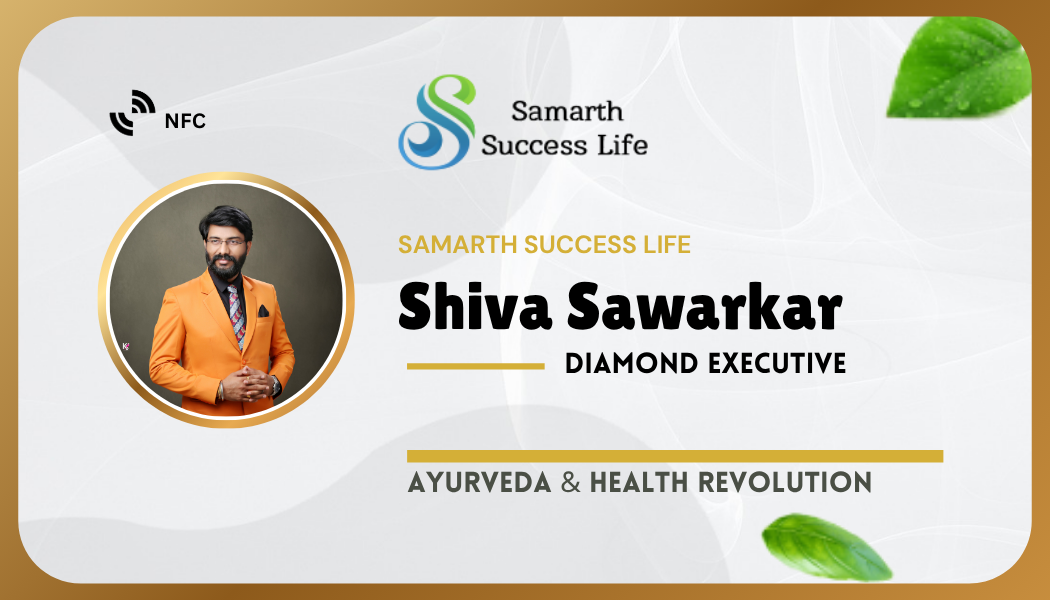
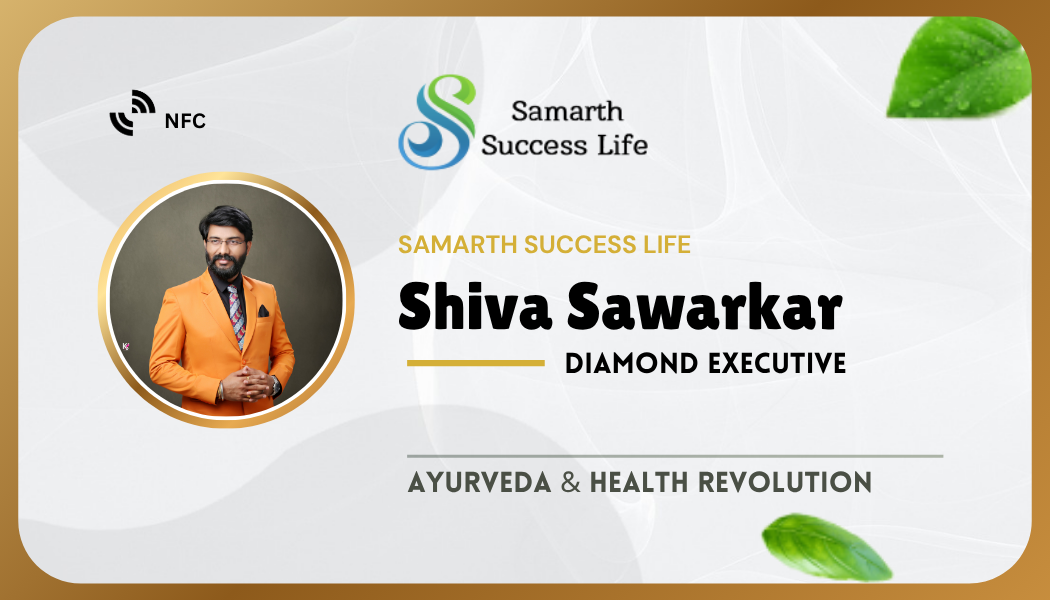
Update formatting and front image

Changed region(s): [[0.3657, 0.75, 0.9143, 0.78], [0.3657, 0.6, 0.5181, 0.63]]

diff --git a/index.html b/index.html
@@ -1,5 +1,6 @@
 <!DOCTYPE html>
 <html lang="en">
+
 <head>
   <meta charset="UTF-8">
   <meta name="viewport" content="width=device-width, initial-scale=1.0">
@@ -9,12 +10,13 @@
   <link rel="preconnect" href="https://fonts.googleapis.com">
   <link rel="preconnect" href="https://fonts.gstatic.com" crossorigin>
   <link href="https://fonts.googleapis.com/css2?family=Lexend:wght@400;600;700&display=swap" rel="stylesheet">
-  
+
   <style>
     :root {
       --bg-dark: #0f172a;
       --accent: #d4af37;
-      --edge-color: #d4af37; /* Seamless Saffron Gold core edge */
+      --edge-color: #d4af37;
+      /* Seamless Saffron Gold core edge */
     }
 
     * {
@@ -61,35 +63,40 @@
       animation: float 20s infinite ease-in-out alternate;
     }
 
-    .leaf1 { 
-      top: 5%; 
-      left: 5%; 
-      width: 250px; 
+    .leaf1 {
+      top: 5%;
+      left: 5%;
+      width: 250px;
       filter: blur(8px);
-      animation-duration: 25s; 
+      animation-duration: 25s;
     }
-    
-    .leaf2 { 
-      top: 50%; 
-      right: 2%; 
-      width: 300px; 
+
+    .leaf2 {
+      top: 50%;
+      right: 2%;
+      width: 300px;
       filter: blur(12px);
-      animation-duration: 30s; 
-      animation-delay: -5s; 
+      animation-duration: 30s;
+      animation-delay: -5s;
     }
-    
-    .leaf3 { 
-      bottom: -5%; 
-      left: 20%; 
-      width: 200px; 
+
+    .leaf3 {
+      bottom: -5%;
+      left: 20%;
+      width: 200px;
       filter: blur(6px);
-      animation-duration: 22s; 
-      animation-delay: -12s; 
+      animation-duration: 22s;
+      animation-delay: -12s;
     }
 
     @keyframes float {
-      0% { transform: translate(0, 0) rotate(0deg) scale(1); }
-      100% { transform: translate(30px, -50px) rotate(15deg) scale(1.1); }
+      0% {
+        transform: translate(0, 0) rotate(0deg) scale(1);
+      }
+
+      100% {
+        transform: translate(30px, -50px) rotate(15deg) scale(1.1);
+      }
     }
 
     .viewer-container {
@@ -106,7 +113,8 @@
     .card-perspective {
       perspective: 1500px;
       width: 90vw;
-      max-width: 650px; /* Increased size for desktop */
+      max-width: 650px;
+      /* Increased size for desktop */
       aspect-ratio: 3.5 / 2;
       position: relative;
       cursor: grab;
@@ -135,7 +143,8 @@
     /* Card face and edge base styling */
     .face {
       position: absolute;
-      backface-visibility: hidden; /* Fixes blurriness on some browsers */
+      backface-visibility: hidden;
+      /* Fixes blurriness on some browsers */
       overflow: hidden;
       border-radius: 28px;
       width: 100%;
@@ -149,7 +158,7 @@
     .card-edge {
       position: absolute;
       inset: 0;
-      border-radius: 28px;
+      border-radius: 40px;
       background: var(--edge-color);
       /* Removed semi-transparent border to ensure pure seamless gold color */
       pointer-events: none;
@@ -157,13 +166,14 @@
       height: 100%;
     }
 
-    .face-front img, .face-back img {
+    .face-front img,
+    .face-back img {
       width: 100%;
       height: 100%;
       object-fit: cover;
       pointer-events: none;
       display: block;
-      border-radius: 24px;
+      border-radius: 40px;
       /* Removed auto image-rendering to allow high quality scaling */
     }
 
@@ -191,11 +201,11 @@
       transition: opacity 0.2s ease, transform 0.2s ease;
       z-index: 1000;
       border: 1px solid rgba(212, 175, 55, 0.3);
-      box-shadow: 0 10px 25px rgba(0,0,0,0.6);
+      box-shadow: 0 10px 25px rgba(0, 0, 0, 0.6);
       white-space: nowrap;
       letter-spacing: 0.5px;
     }
-    
+
     .custom-tooltip.visible {
       opacity: 1;
       transform: translateY(0) translateX(-50%);
@@ -207,8 +217,10 @@
       top: 50%;
       left: 50%;
       transform: translate(-50%, -50%);
-      width: 22.85%; /* 0.8 inches out of 3.5 inches */
-      height: 40%;   /* 0.8 inches out of 2.0 inches */
+      width: 22.85%;
+      /* 0.8 inches out of 3.5 inches */
+      height: 40%;
+      /* 0.8 inches out of 2.0 inches */
       z-index: 5;
       background: transparent;
       cursor: pointer;
@@ -217,7 +229,8 @@
 
     /* Controls & Instructions */
     .controls {
-      margin-top: 100px; /* Pushed further downward */
+      margin-top: 100px;
+      /* Pushed further downward */
       display: flex;
       flex-direction: column;
       align-items: center;
@@ -279,6 +292,7 @@
     }
   </style>
 </head>
+
 <body>
 
   <!-- Background Effects -->
@@ -295,11 +309,11 @@
   </div>
 
   <div class="viewer-container">
-    
+
     <!-- 3D Card Viewport -->
     <div class="card-perspective" id="cardContainer">
       <div class="card-box" id="cardBox">
-        
+
         <!-- 3D Edge layers (More layers for perfectly solid corners, spacing 0.5px) -->
         <div class="card-edge" style="transform: translateZ(-3.5px);"></div>
         <div class="card-edge" style="transform: translateZ(-3.0px);"></div>
@@ -322,7 +336,7 @@
           <span class="fallback-text">Save front.png in img/ folder</span>
           <img src="img/front.png" alt="Card Front" onerror="this.style.opacity='0'">
         </div>
-        
+
         <!-- Card Back -->
         <div class="face face-back">
           <span class="fallback-text">Save back.png in img/ folder</span>
@@ -336,7 +350,10 @@
     <!-- Controls -->
     <div class="controls">
       <button class="flip-btn" id="flipBtn">
-        <svg width="14" height="14" viewBox="0 0 24 24" fill="none" stroke="currentColor" stroke-width="2.5" stroke-linecap="round" stroke-linejoin="round"><path d="M21.5 2v6h-6M21.34 15.57a10 10 0 1 1-.57-8.38l5.67-5.67"/></svg>
+        <svg width="14" height="14" viewBox="0 0 24 24" fill="none" stroke="currentColor" stroke-width="2.5"
+          stroke-linecap="round" stroke-linejoin="round">
+          <path d="M21.5 2v6h-6M21.34 15.57a10 10 0 1 1-.57-8.38l5.67-5.67" />
+        </svg>
         Spin 180°
       </button>
       <span class="instruction">
@@ -361,9 +378,9 @@
     let isDragging = false;
     let hasMovedDuringDrag = false;
     let previousMousePosition = { x: 0, y: 0 };
-    
+
     // 3D Zoom variables (Using scale instead of Z-translation for sharper images)
-    let zoomScale = 1.0; 
+    let zoomScale = 1.0;
     let initialDistance = 0;
     let startZoomScale = 1.0;
 
@@ -371,7 +388,7 @@
     function updateCardTransform(transition = 'none') {
       card.style.transition = transition;
       card.style.transform = `rotateX(${currentX}deg) rotateY(${currentY}deg)`;
-      
+
       container.style.transition = transition;
       container.style.transform = `scale(${zoomScale})`;
 
@@ -380,16 +397,16 @@
         const speed = parseFloat(layer.getAttribute('data-speed'));
         const radY = currentY * (Math.PI / 180);
         const radX = currentX * (Math.PI / 180);
-        
+
         // Use Math.sin to create smooth oscillation relative to the card's spin
         const xOffset = Math.sin(radY) * speed;
         const yOffset = Math.sin(radX) * speed;
-        
+
         layer.style.transition = transition;
         layer.style.transform = `translate(${xOffset}px, ${yOffset}px)`;
       });
     }
-    
+
     updateCardTransform();
 
     // --- MOUSE INTERACTIONS ---
@@ -401,7 +418,7 @@
 
     document.addEventListener('mousemove', (e) => {
       if (!isDragging) return;
-      
+
       const deltaMove = {
         x: e.clientX - previousMousePosition.x,
         y: e.clientY - previousMousePosition.y
@@ -413,7 +430,7 @@
 
       currentY += deltaMove.x * 0.4; // Spin Y
       currentX -= deltaMove.y * 0.4; // Pitch X
-      
+
       // Limit pitch to prevent upside-down control confusion
       currentX = Math.max(-75, Math.min(75, currentX));
 
@@ -428,14 +445,14 @@
     // Prevent accidental QR link click while dragging and handle custom tooltip
     const qrLink = document.getElementById('qrLink');
     const qrTooltip = document.getElementById('qrTooltip');
-    
+
     if (qrLink) {
       qrLink.addEventListener('click', (e) => {
         if (hasMovedDuringDrag) {
           e.preventDefault();
         }
       });
-      
+
       if (qrTooltip) {
         // Track mouse to position tooltip
         qrLink.addEventListener('mousemove', (e) => {
@@ -443,12 +460,12 @@
           qrTooltip.style.left = e.clientX + 'px';
           qrTooltip.style.top = (e.clientY - 40) + 'px'; // 40px above cursor
         });
-        
+
         // Hide tooltip when leaving
         qrLink.addEventListener('mouseleave', () => {
           qrTooltip.classList.remove('visible');
         });
-        
+
         // Hide tooltip on touch to prevent it getting stuck on mobile
         qrLink.addEventListener('touchstart', () => {
           qrTooltip.classList.remove('visible');
@@ -502,7 +519,7 @@
           e.touches[0].clientY - e.touches[1].clientY
         );
         const factor = dist / initialDistance;
-        
+
         // Increased Zoom range
         zoomScale = Math.max(0.4, Math.min(3.5, startZoomScale * factor));
         updateCardTransform();
@@ -533,4 +550,5 @@
     });
   </script>
 </body>
+
 </html>
